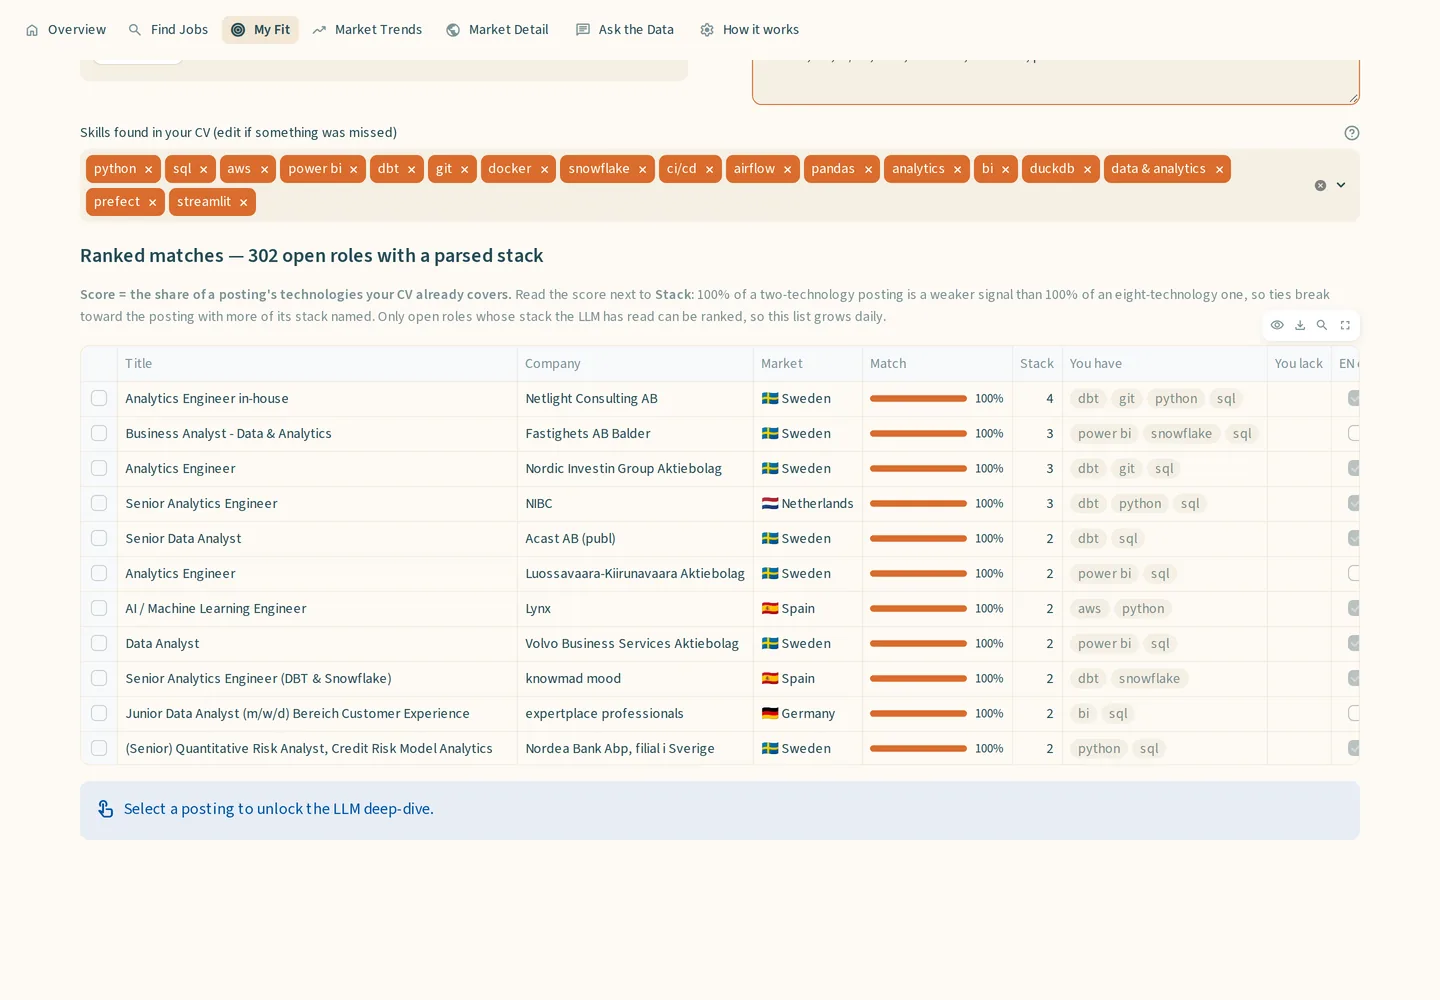
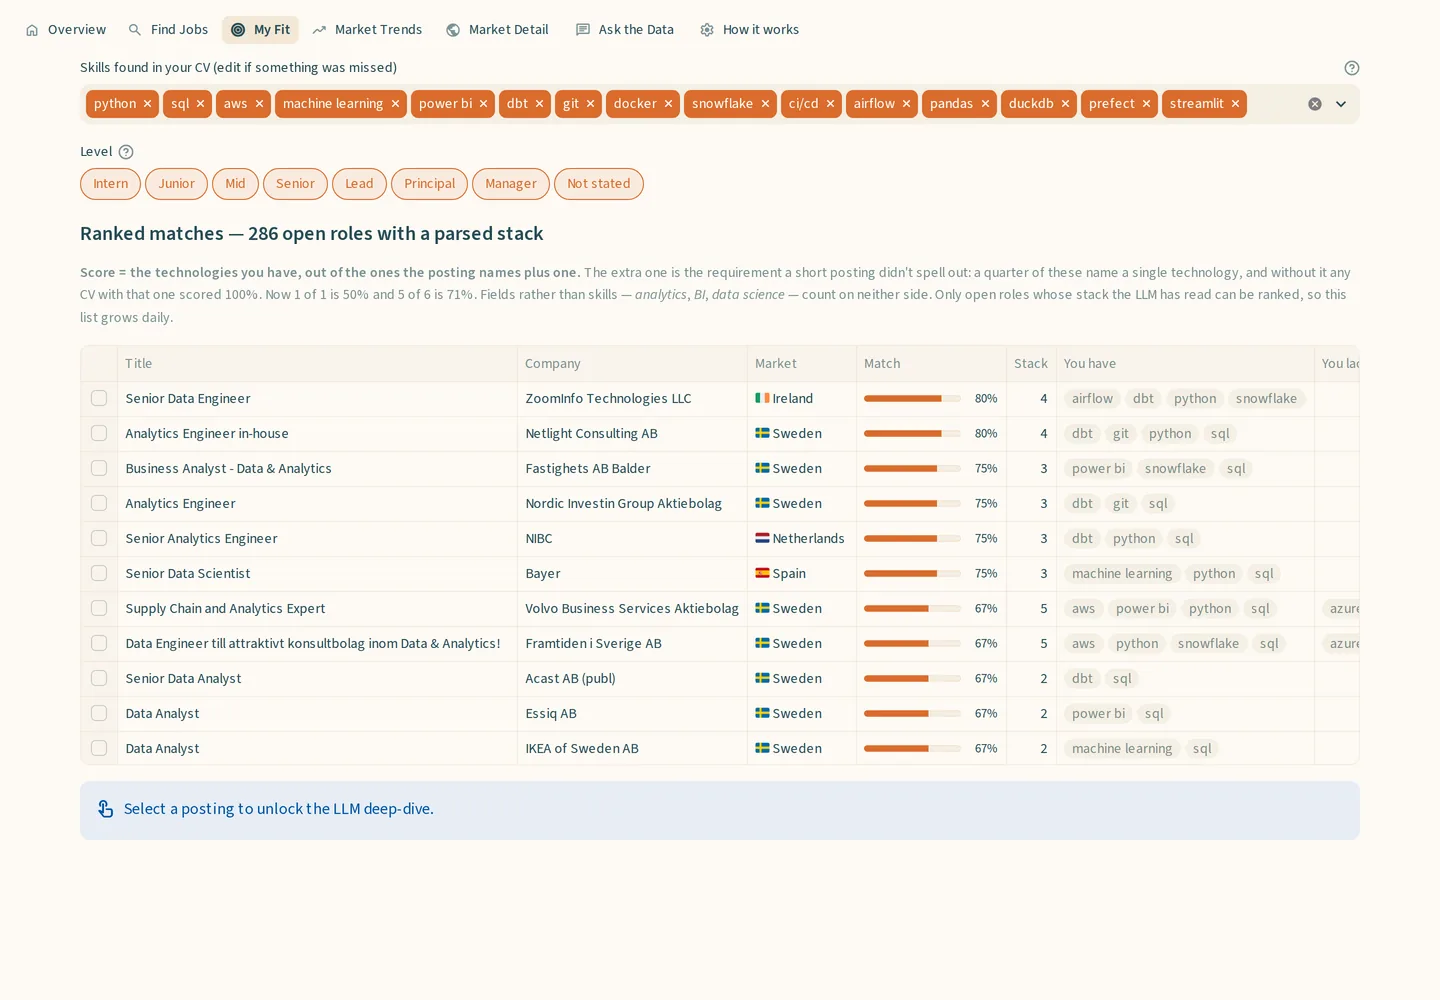
docs(jmi): My Fit screenshot and caption follow the new scoring

diff --git a/projects/job-market-intelligence/index.html b/projects/job-market-intelligence/index.html
@@ -141,8 +141,8 @@
                         <p>So the pipeline reads for it. Six free sources land in an append-only log every morning, an LLM reads each posting for its stack, seniority and working language, and a dbt medallion turns that into one canonical row per posting — <strong>703 open data roles</strong> on 26 Sep 2026, around 50 of them new each day. Spain, Germany, the Netherlands and Sweden are read from their job boards; Ireland, which no open board covers, from 33 employers' own career sites — so the app lists Irish roles but keeps them out of every chart that compares markets.</p>
                         <p>The free tier allows 20 requests a day, so for most of the project's life the model had read only part of the corpus. One rule carried it: <strong>a posting nobody has read says “not yet classified”, never “no match.”</strong> The backlog is clear now, and the rule matters more — only 47% of roles yield a stack, and the reason is no longer the quota.</p>
                         <figure class="shot">
-                            <img src="../../images/jmi/my-fit.webp" alt="The My Fit page: skills detected from a pasted CV shown as removable chips, then every open role ranked by the share of its stack the CV already covers, with the matched technologies listed per row." width="1440" height="1000" loading="lazy" decoding="async">
-                            <figcaption><strong>My Fit</strong> — the answer the whole pipeline exists to produce: the 302 open roles with a parsed stack, ranked by how much of it you already cover. Pure set arithmetic, no API call. The CV never leaves the browser session.</figcaption>
+                            <img src="../../images/jmi/my-fit.webp" alt="The My Fit page: skills detected from a pasted CV shown as removable chips, a Level filter, then every open role ranked by how much of its stack the CV covers — discounted when a posting names little — with the matched technologies listed per row." width="1440" height="1000" loading="lazy" decoding="async">
+                            <figcaption><strong>My Fit</strong> — the answer the whole pipeline exists to produce: every open role with a parsed stack, ranked by how much of it you already cover — out of what the posting names plus one, so a one-technology snippet can't score 100%. Pure set arithmetic, no API call. The CV never leaves the browser session.</figcaption>
                         </figure>
                     </div>
 
